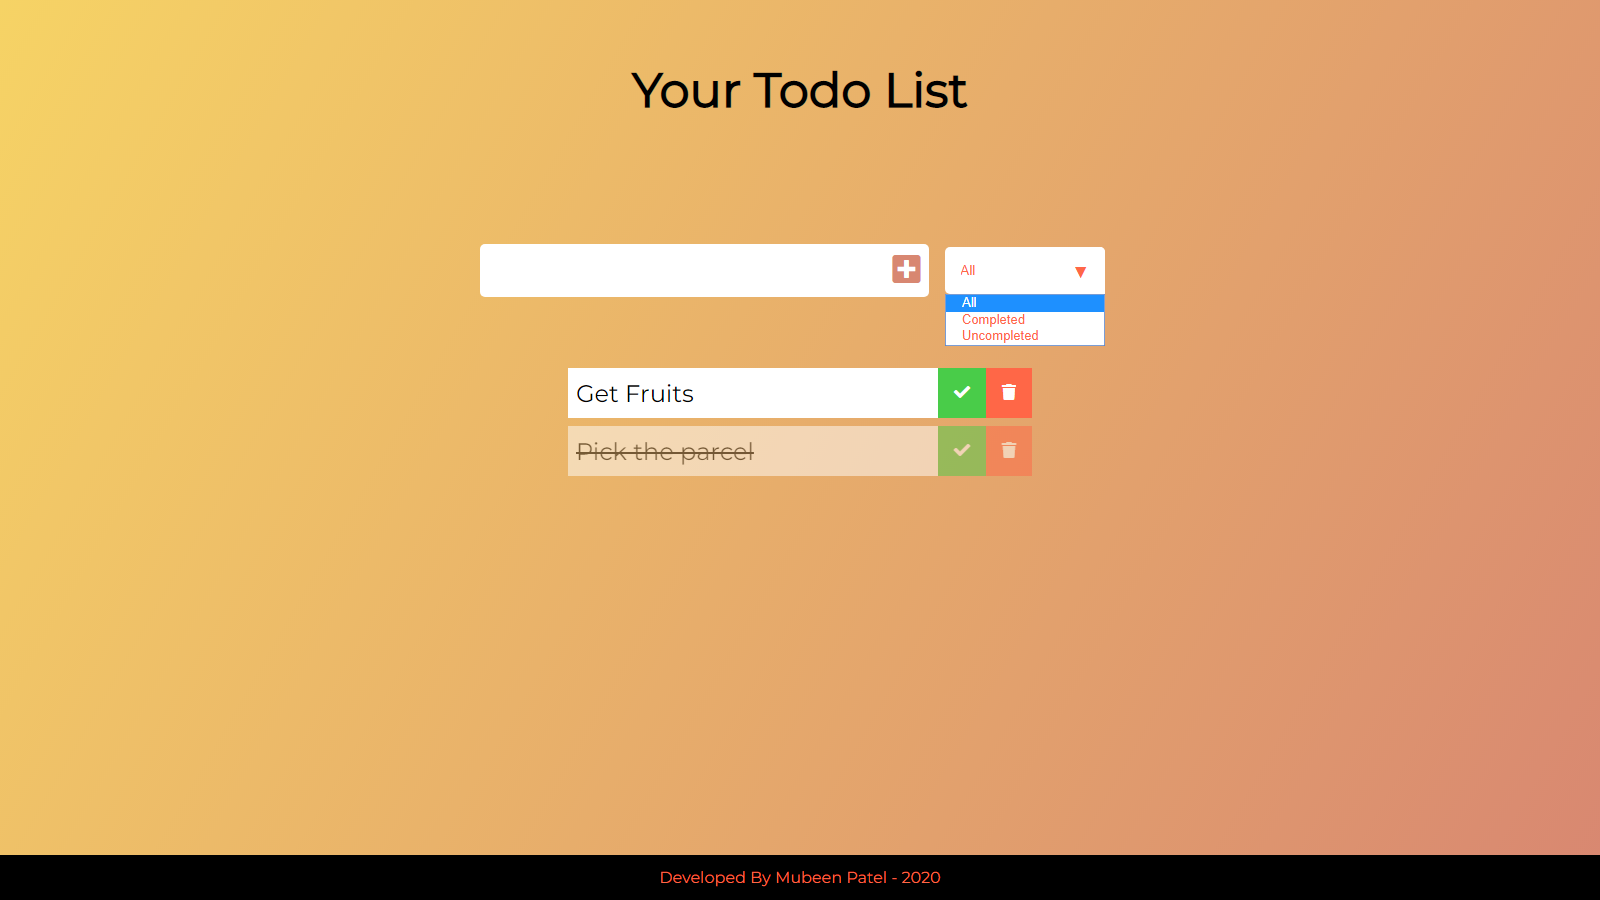
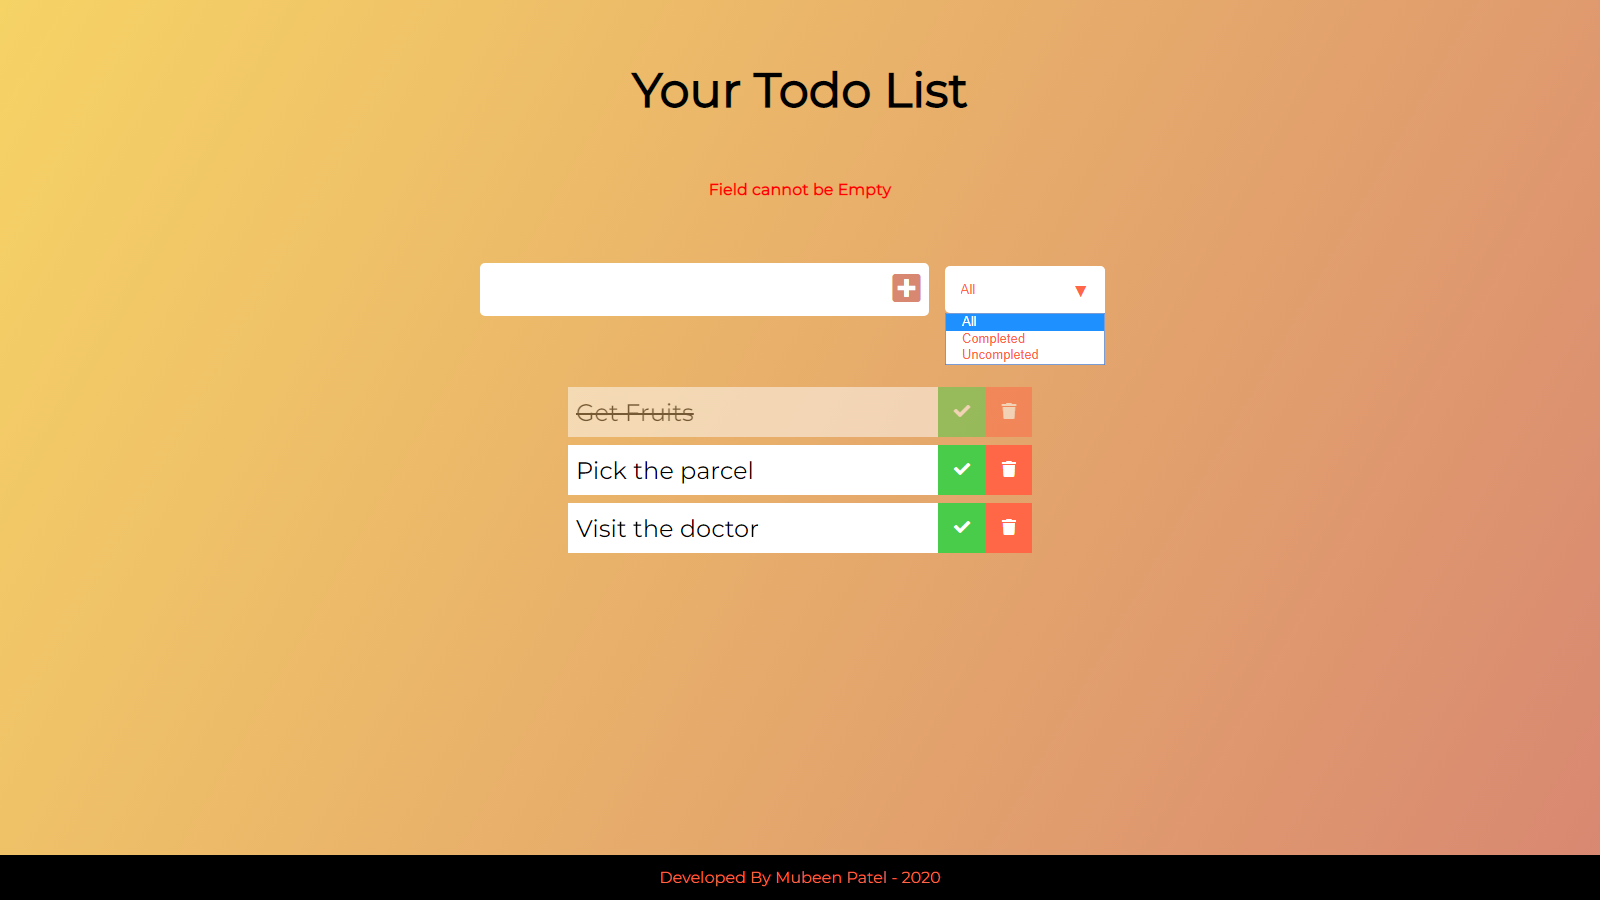
added error reporting

Changed region(s): [[0.2812, 0.2489, 0.6875, 0.6222], [0.4375, 0.1867, 0.5625, 0.2178]]

diff --git a/src/app.js b/src/app.js
@@ -3,6 +3,7 @@ const todoInput = document.querySelector('.todo-input');
 const todoButton = document.querySelector('.todo-button');
 const todoList = document.querySelector('.todo-list');
 const filterOption = document.querySelector('.filter-todo');
+const error = document.querySelector('.error');
 
 //Event Listeners
 document.addEventListener('DOMContentLoaded', getTodos);
@@ -14,28 +15,33 @@ filterOption.addEventListener('click', filterTodo);
 function addTodo(event) {
     //prevent form submitting
     event.preventDefault();
-    //To Do Div
-    const todoDiv = document.createElement('div');
-    todoDiv.classList.add('todo');
-    //create li
-    const newTodo = document.createElement('li');
-    newTodo.innerText = todoInput.value;
-    newTodo.classList.add('todo-item');
-    todoDiv.appendChild(newTodo);
-    //Checked button
-    const completedButton = document.createElement('button');
-    completedButton.innerHTML = '<i class="fas fa-check"></i>';
-    completedButton.classList.add('completed-btn');
-    todoDiv.appendChild(completedButton);
-    //ADD Todo to local storage
-    saveLocalTodos(todoInput.value);
-    //Trash button
-    const trashButton = document.createElement('button');
-    trashButton.innerHTML = '<i class="fas fa-trash"></i>';
-    trashButton.classList.add('trash-btn');
-    todoDiv.appendChild(trashButton);
-    //append to list
-    todoList.appendChild(todoDiv);
+    if (todoInput.value == "") {
+        error.classList.remove('hidden');
+    } else {
+        error.classList.add('hidden');
+        //To Do Div
+        const todoDiv = document.createElement('div');
+        todoDiv.classList.add('todo');
+        //create li
+        const newTodo = document.createElement('li');
+        newTodo.innerText = todoInput.value;
+        newTodo.classList.add('todo-item');
+        todoDiv.appendChild(newTodo);
+        //Checked button
+        const completedButton = document.createElement('button');
+        completedButton.innerHTML = '<i class="fas fa-check"></i>';
+        completedButton.classList.add('completed-btn');
+        todoDiv.appendChild(completedButton);
+        //ADD Todo to local storage
+        saveLocalTodos(todoInput.value);
+        //Trash button
+        const trashButton = document.createElement('button');
+        trashButton.innerHTML = '<i class="fas fa-trash"></i>';
+        trashButton.classList.add('trash-btn');
+        todoDiv.appendChild(trashButton);
+        //append to list
+        todoList.appendChild(todoDiv);
+    }
     //Clear Todo input value
     todoInput.value = "";
     todoInput.focus();

diff --git a/src/index.html b/src/index.html
@@ -15,6 +15,7 @@
     <header>
         <h1>Your Todo List</h1>
     </header>
+    <div class="error hidden">Field cannot be Empty</div>
     <form>
         <input type="text" class="todo-input" autofocus>
         <button class="todo-button" type="submit">

diff --git a/src/style.css b/src/style.css
@@ -13,6 +13,16 @@ body {
     min-width: 100%;
 }
 
+.error {
+    color: red;
+    font-weight: bolder;
+    text-align: center;
+}
+
+.hidden {
+    display: none;
+}
+
 footer {
     position: fixed;
     bottom: 0;
